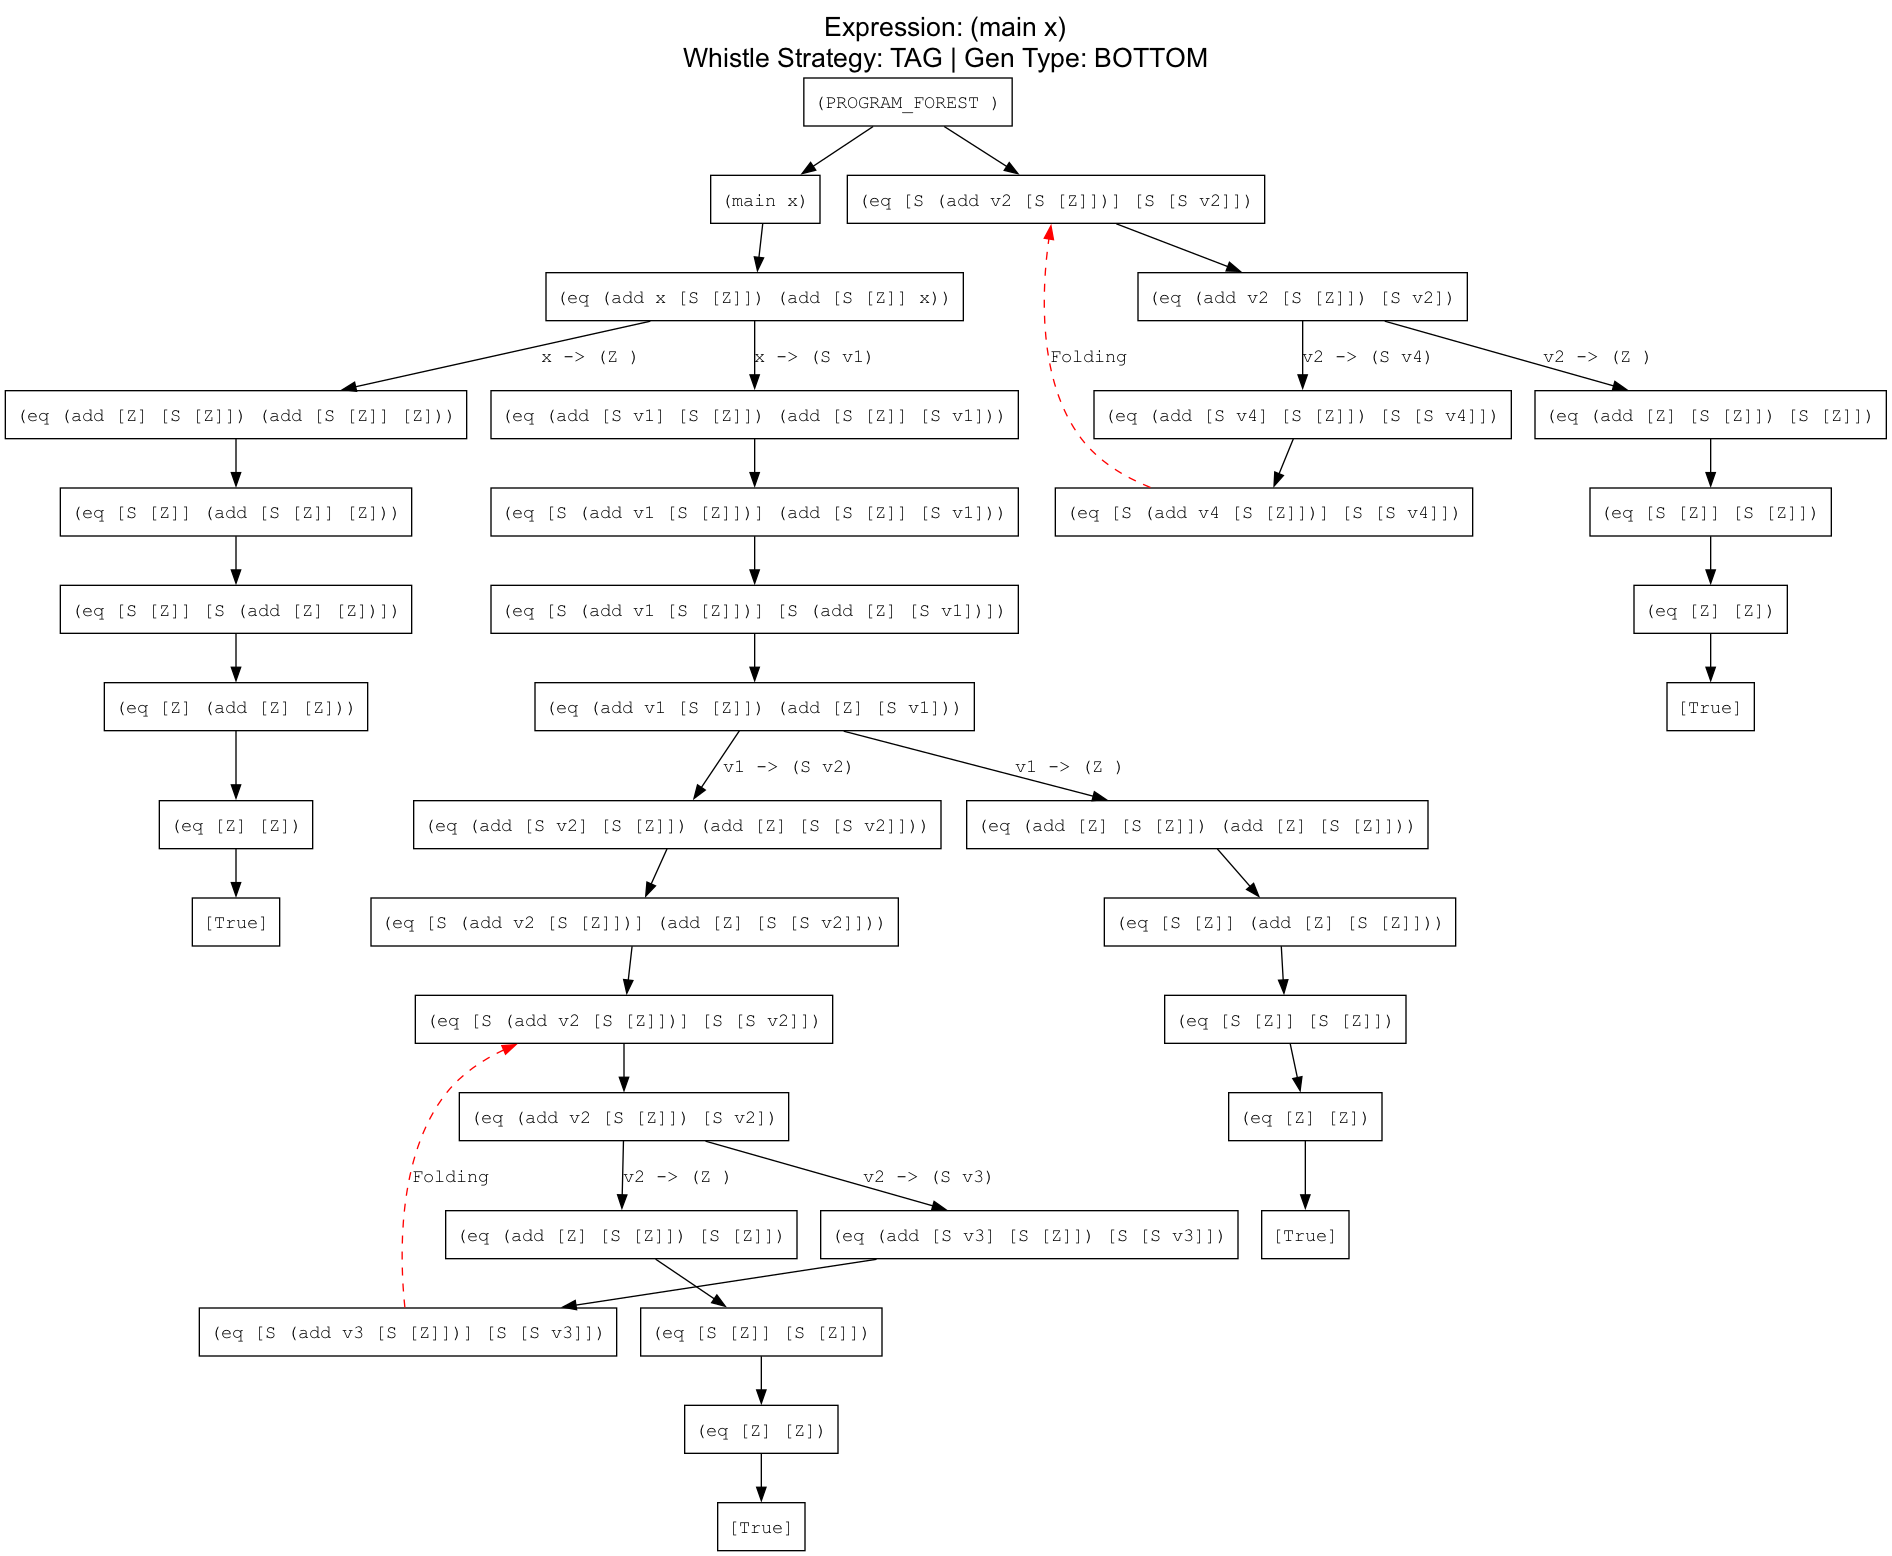
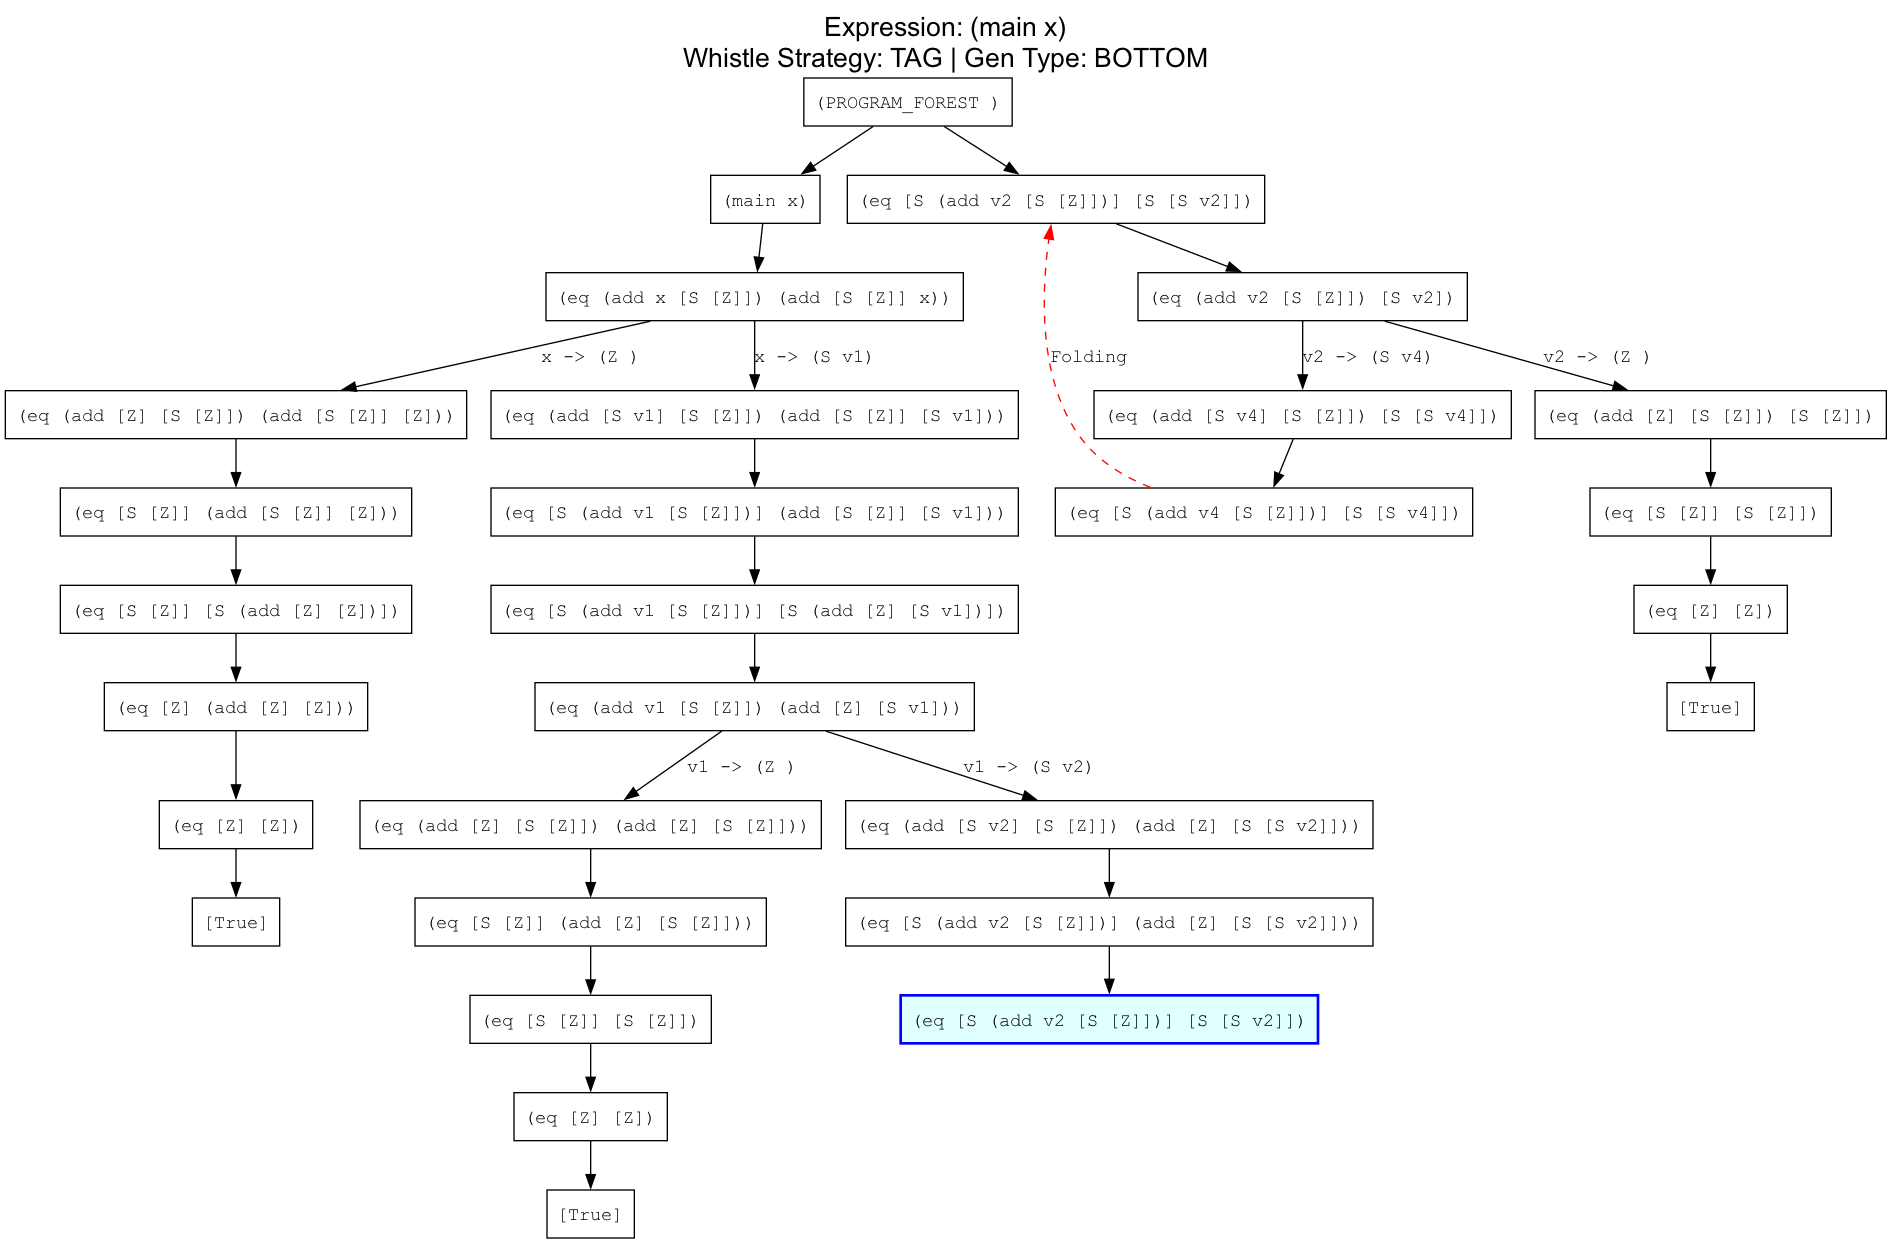
Исправление позднего свистка + исправление графа с x + 1 = x + 1

diff --git a/sll/supercompiler.py b/sll/supercompiler.py
@@ -149,7 +149,7 @@ class Supercompiler:
             return None
 
         for alpha in node.ancestors():
-            if alpha.parent is None or alpha.expr.name == "PROGRAM_FOREST":
+            if alpha.expr.name == "PROGRAM_FOREST":
                 continue
 
             # Сравниваем только FCall с FCall
